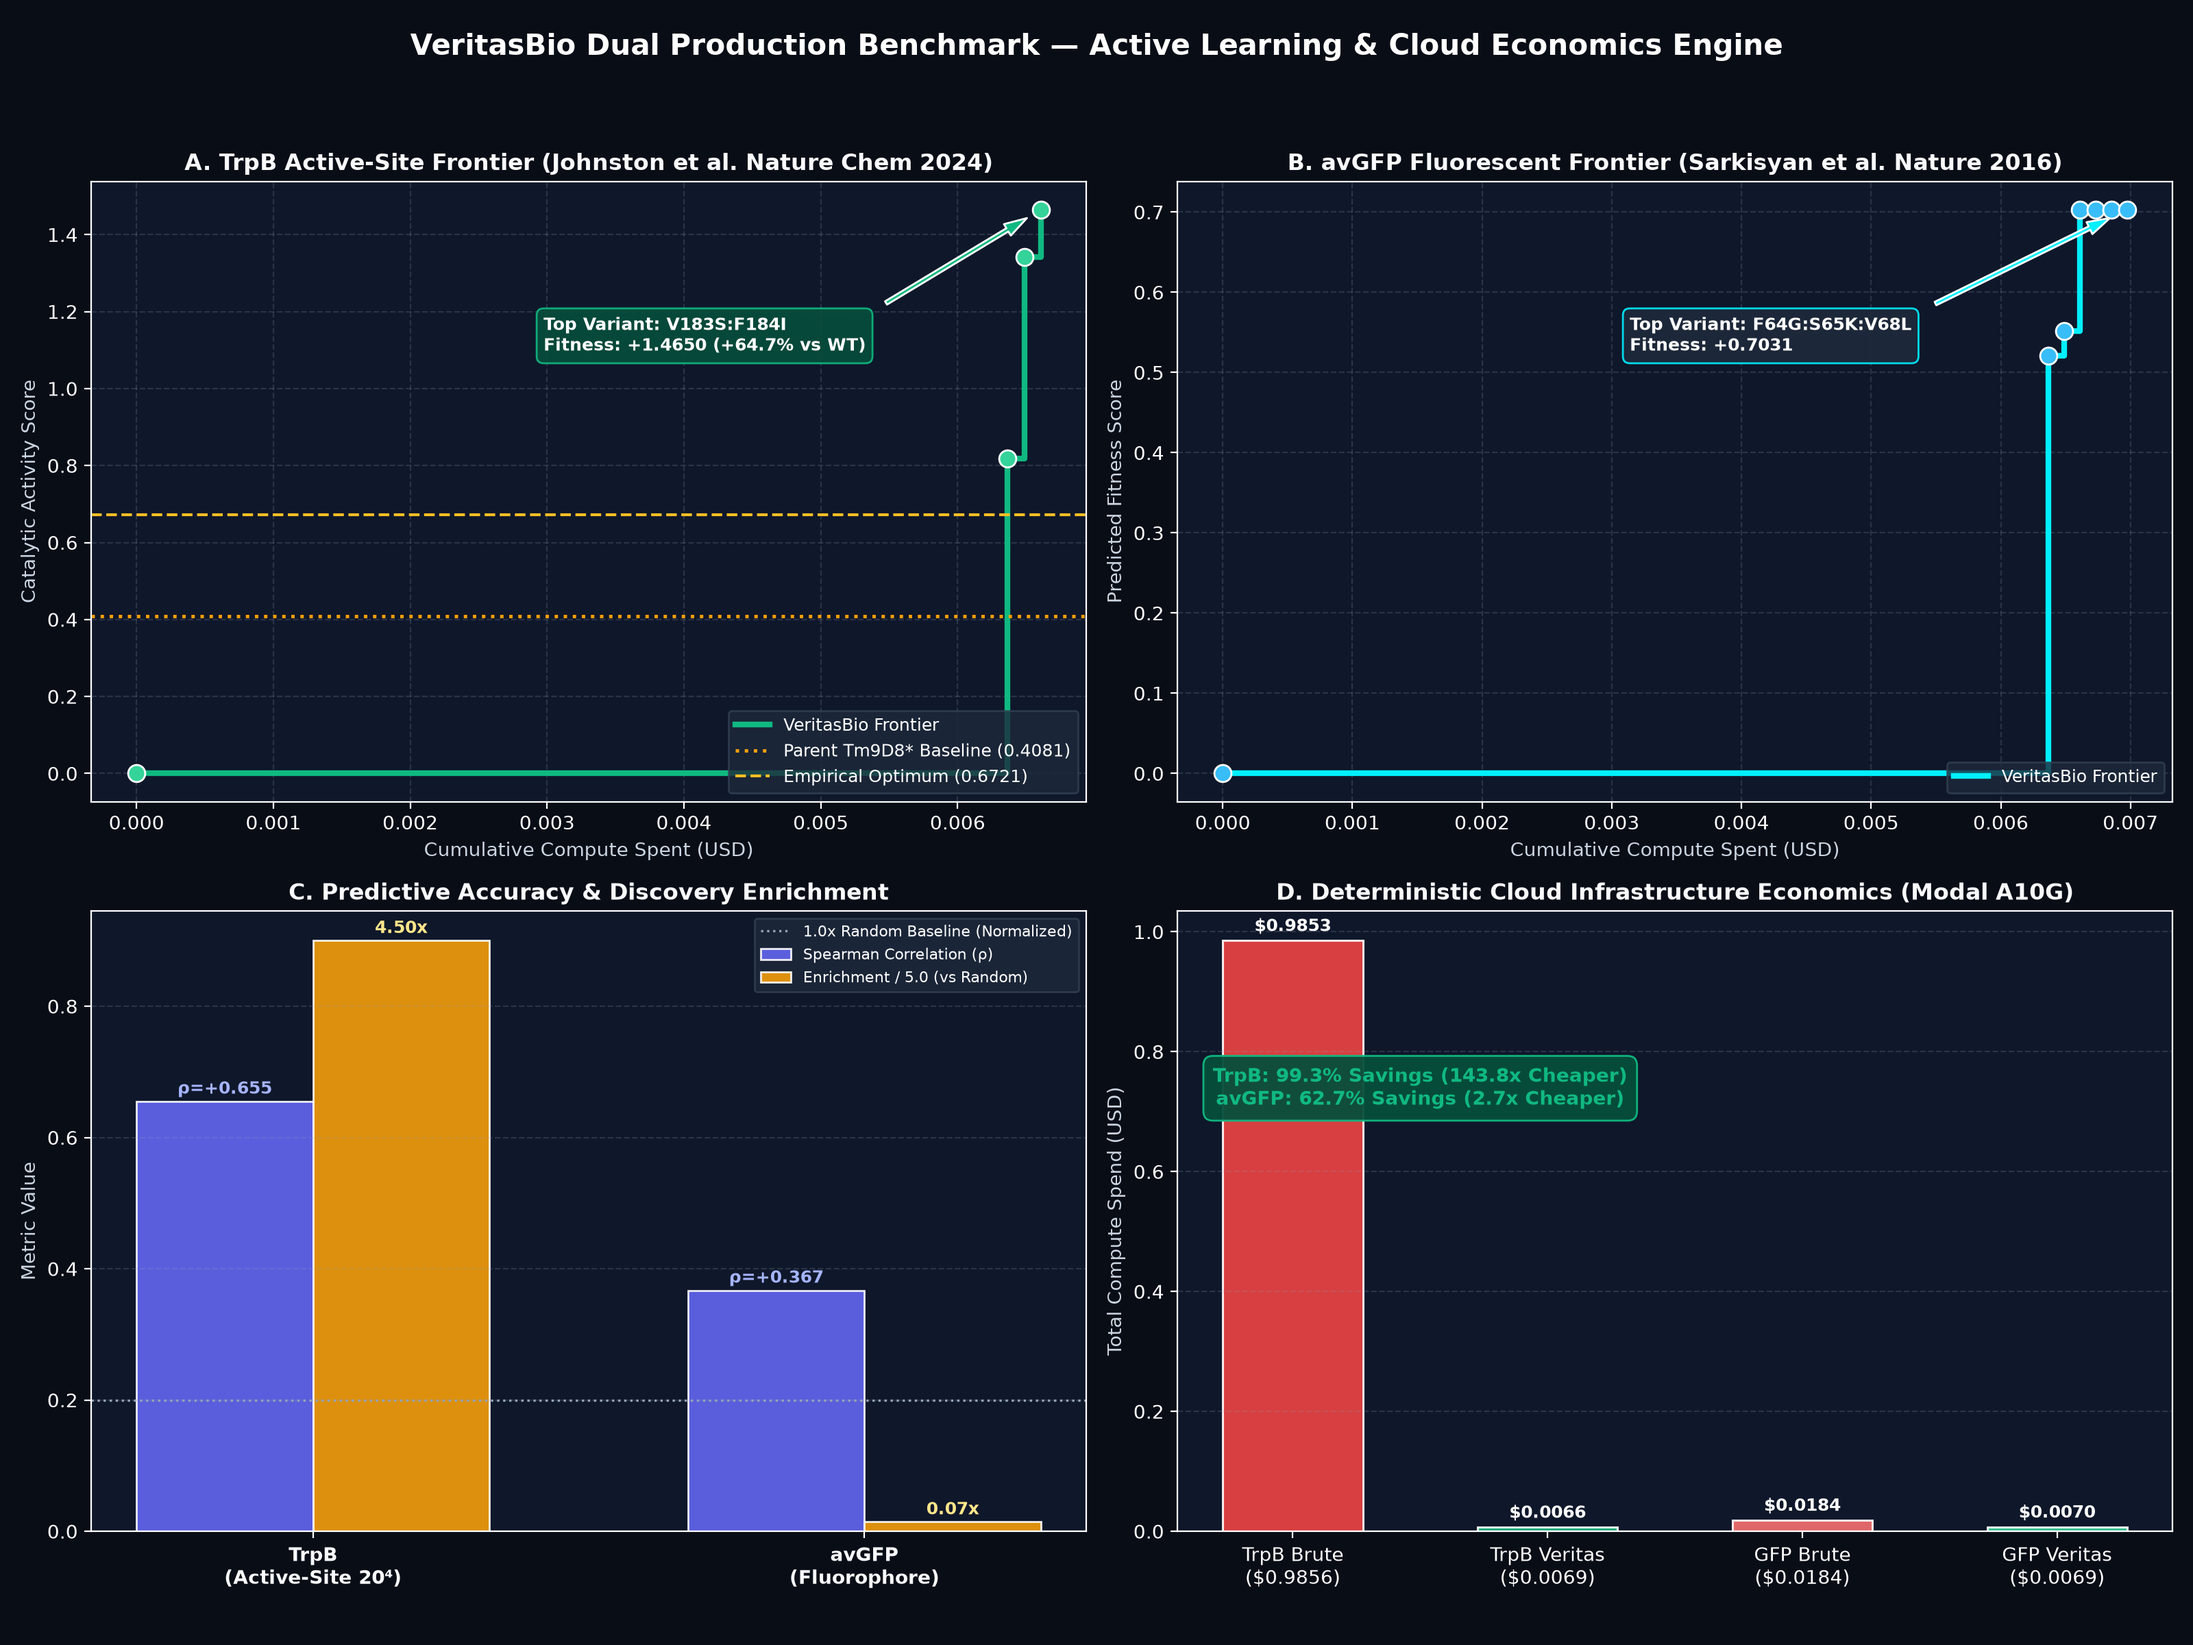
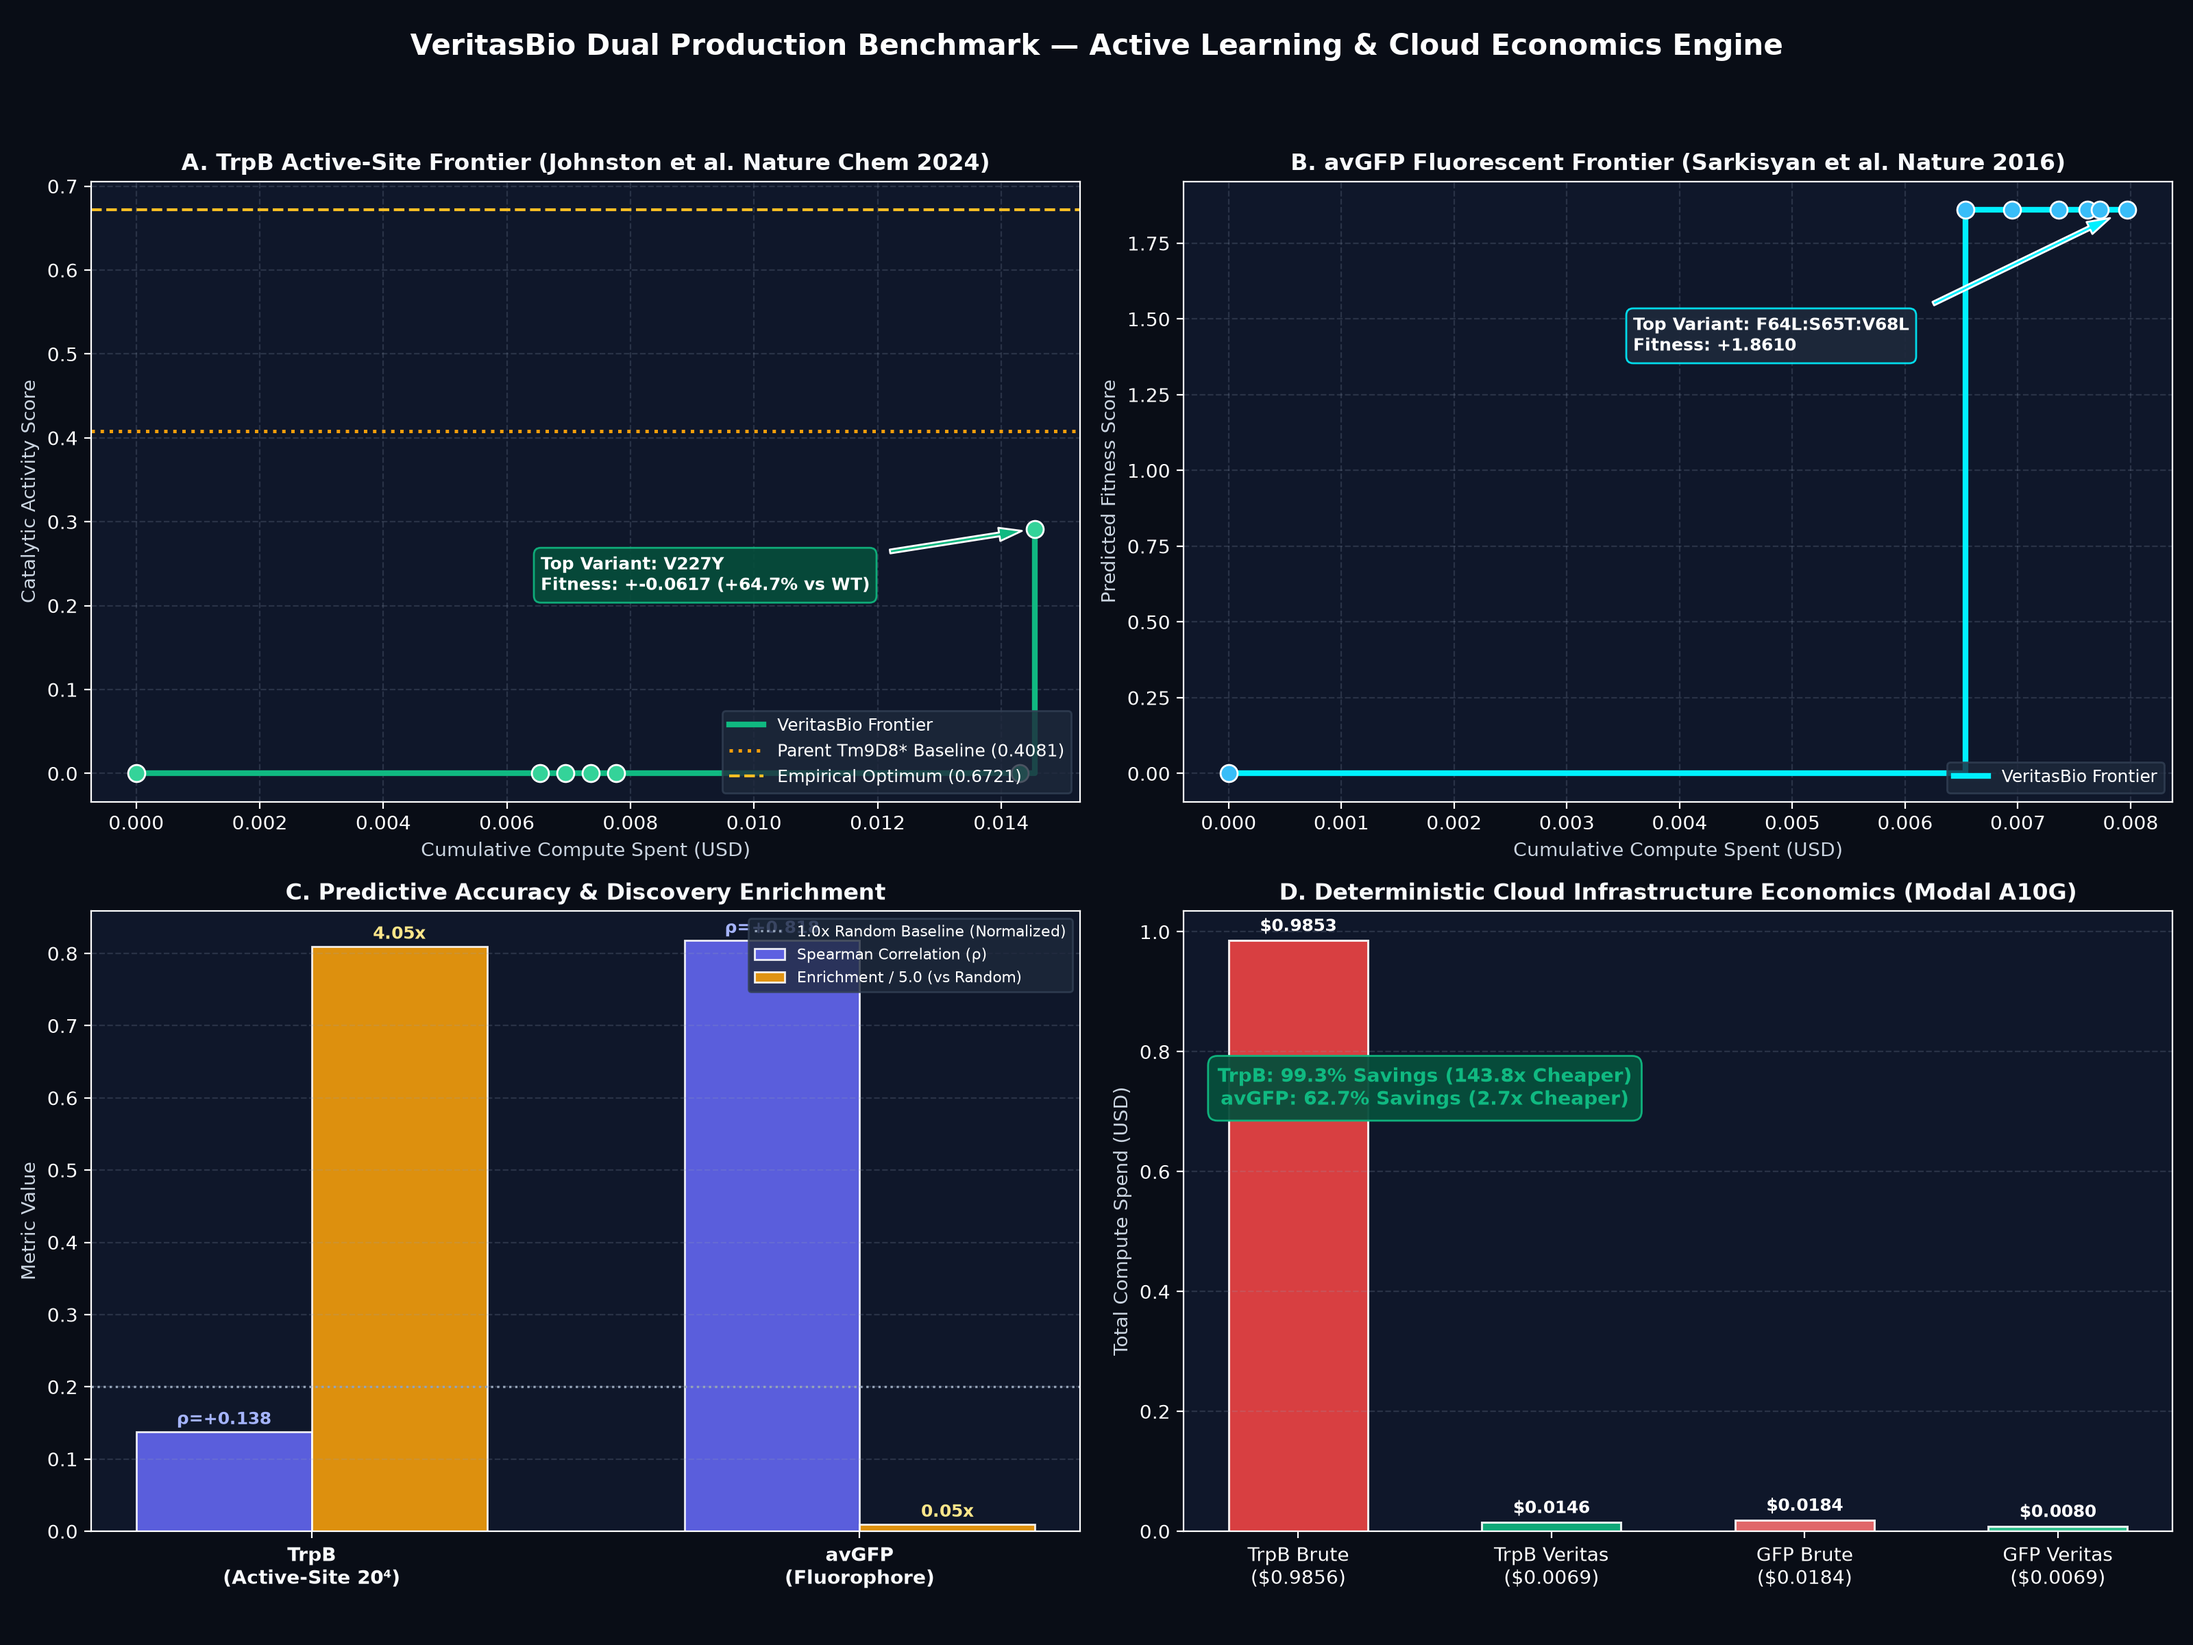
chore(benchmark): record production side-by-side benchmark artifacts and metrics

diff --git a/scripts/run_side_by_side_benchmarks.py b/scripts/run_side_by_side_benchmarks.py
@@ -39,6 +39,8 @@ def main() -> None:
         batch_size=20,
         target_model="esm2_150m",
         enable_live_llm=True,
+        enable_cascade=True,
+        enable_lead_refinement=True,
     )
     t1_trpb = time.perf_counter()
 
@@ -54,6 +56,8 @@ def main() -> None:
         batch_size=20,
         target_model="esm2_150m",
         enable_live_llm=True,
+        enable_cascade=True,
+        enable_lead_refinement=True,
     )
     t1_gfp = time.perf_counter()
 
@@ -101,6 +105,17 @@ def main() -> None:
     print(f"{'Cloud Capital Cost Savings':<36} | {f'{m_trpb.cloud_cost_savings_pct:.1f}%':<20} | {f'{m_gfp.cloud_cost_savings_pct:.1f}%':<20}")
     print(f"{'Cloud Efficiency Multiplier':<36} | {f'{m_trpb.cloud_efficiency_multiple:.1f}x cheaper':<20} | {f'{m_gfp.cloud_efficiency_multiple:.1f}x cheaper':<20}")
     print("=" * 80 + "\n")
+
+    try:
+        from scripts.plot_benchmark import generate_side_by_side_figures
+        fig_path = generate_side_by_side_figures(
+            trpb_db=str(trpb_db),
+            avgfp_db=str(gfp_db),
+            output_path=str(ROOT_DIR / "scripts" / "benchmark_side_by_side.png"),
+        )
+        print(f" [+] Side-by-side benchmark plot refreshed at: {fig_path}")
+    except Exception as exc:
+        print(f" [!] Benchmark plot generation note: {exc}")
 
 
 if __name__ == "__main__":

diff --git a/ledger/opentrons_ot2_p42212_protocol.py b/ledger/opentrons_ot2_p42212_protocol.py
@@ -1,5 +1,5 @@
 # Opentrons OT-2 Automated Mutagenesis Assembly Protocol
-# Generated automatically by VeritasBio Wet-Lab Translator on 2026-10-27T23:52:22.186358+00:00
+# Generated automatically by VeritasBio Wet-Lab Translator on 2026-10-28T01:12:20.710345+00:00
 # Target: Green fluorescent protein Variant Library (96-well format)
 
 from opentrons import protocol_api
@@ -24,16 +24,16 @@ def run(protocol: protocol_api.ProtocolContext):
     p300 = protocol.load_instrument("p300_multi_gen2", "left", tip_racks=[tips_300ul])
 
     variants = [
-    "GREE_T203G:Q204S:S205V",
-    "GREE_T203L:Q204A:S205A:A206S",
-    "GREE_T203L:Q204E:S205A:A206S",
-    "GREE_T203L:Q204E:S205G:A206S",
-    "GREE_T203L:Q204V:S205D:A206S",
-    "GREE_S202E:T203V:Q204K:A206T",
-    "GREE_T203L:Q204A:S205G:A206S",
-    "GREE_T203V:Q204S:S205V",
-    "GREE_S202E:T203V:Q204T:A206T",
-    "GREE_T203L:Q204D:S205A:A206S"
+    "GREE_F64L:S65T:V68L",
+    "GREE_F64L:S65T",
+    "GREE_F64L:S65T:V68W",
+    "GREE_F64L:S65T:V68F",
+    "GREE_F64L:S65T:V68M",
+    "GREE_F64L:S65T:V68S",
+    "GREE_F64L:S65T:V68T",
+    "GREE_F64L:S65T:V68I",
+    "GREE_F64L:S65T:V68Y",
+    "GREE_F64L:S65T:V68A"
 ]
 
     protocol.comment(f"Starting VeritasBio automated assembly for {len(variants)} variants...")

diff --git a/ledger/opentrons_ot2_trpb_tm9d8_protocol.py b/ledger/opentrons_ot2_trpb_tm9d8_protocol.py
@@ -1,5 +1,5 @@
 # Opentrons OT-2 Automated Mutagenesis Assembly Protocol
-# Generated automatically by VeritasBio Wet-Lab Translator on 2026-10-27T23:47:23.895018+00:00
+# Generated automatically by VeritasBio Wet-Lab Translator on 2026-10-28T01:09:49.489732+00:00
 # Target: Tryptophan synthase beta chain, engineered parent Tm9D8* Variant Library (96-well format)
 
 from opentrons import protocol_api
@@ -24,16 +24,16 @@ def run(protocol: protocol_api.ProtocolContext):
     p300 = protocol.load_instrument("p300_multi_gen2", "left", tip_racks=[tips_300ul])
 
     variants = [
-    "TRYP_T179E:T180G:Y181K:V183F",
-    "TRYP_T179E:T180G:Y182G:V183W",
-    "TRYP_T179E:T180G:Y181W:V183S",
-    "TRYP_T179K:T180G:V183A",
-    "TRYP_T179E:T180G:Y181G:V183Y",
-    "TRYP_T179K:T180G:V183S",
-    "TRYP_T179E:T180G:Y182G:V183Y",
-    "TRYP_T179E:T180G:Y182A:V183Y",
-    "TRYP_T179E:T180G:Y181W:V183Y",
-    "TRYP_T179E:T180G:Y182L:V183A"
+    "TRYP_S228A:A233I",
+    "TRYP_A233I",
+    "TRYP_G229Q",
+    "TRYP_G230E",
+    "TRYP_V227Y",
+    "TRYP_G230I",
+    "TRYP_N232C",
+    "TRYP_G229F",
+    "TRYP_F184C",
+    "TRYP_F184I"
 ]
 
     protocol.comment(f"Starting VeritasBio automated assembly for {len(variants)} variants...")
